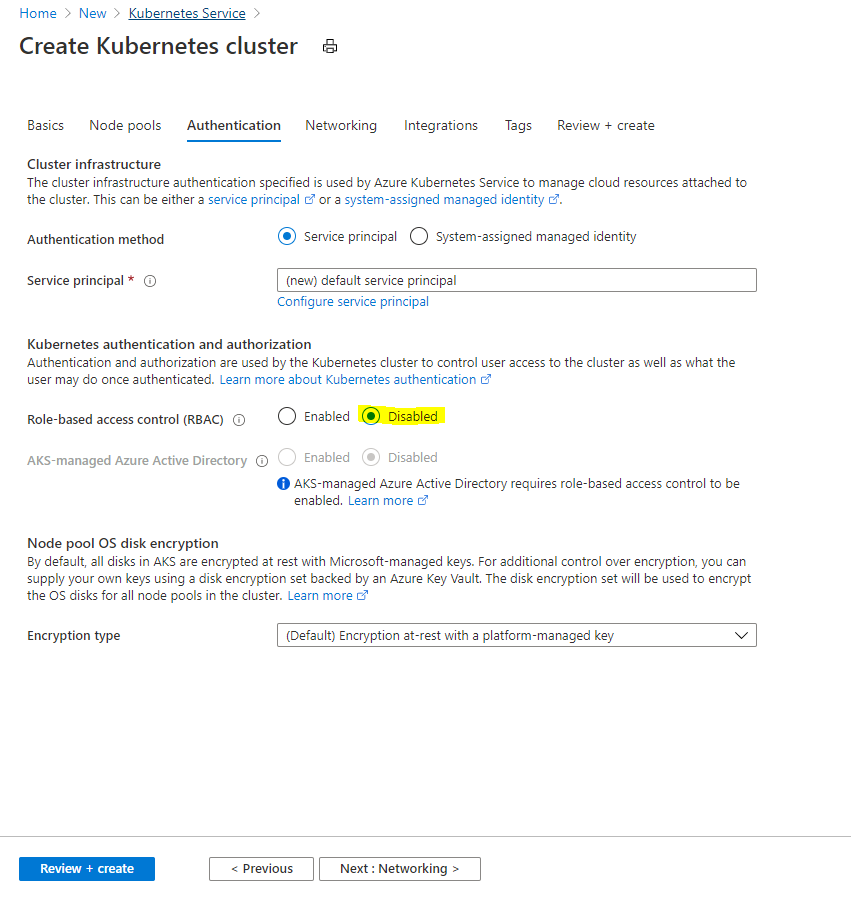
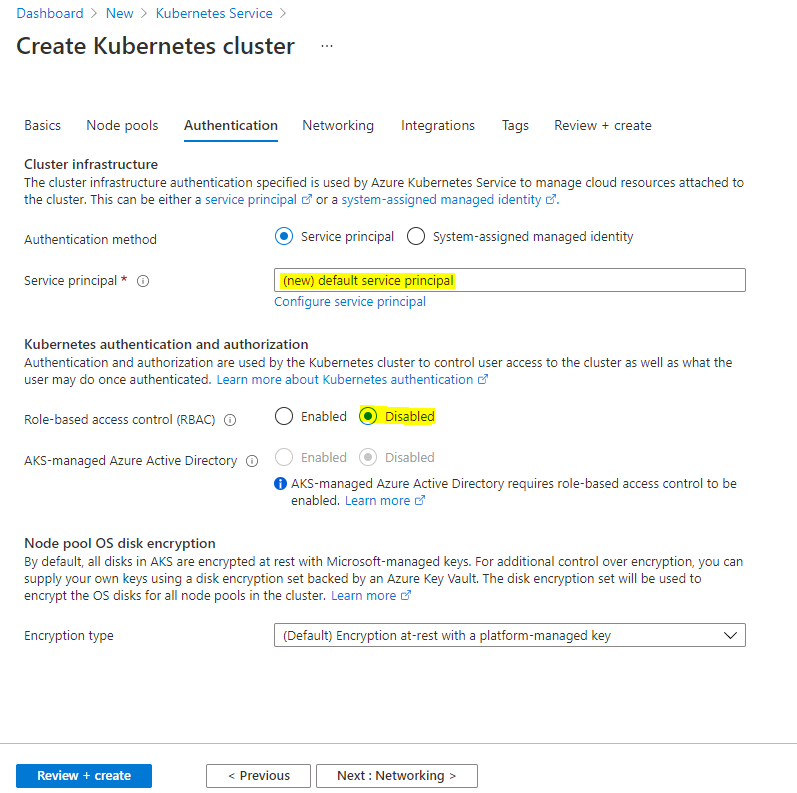
Update to support Helm 3.x + AKS 1.18

diff --git a/README.md b/README.md
@@ -217,11 +217,11 @@ The new release pipeline should begin running:
 
 Integration testing is important for IoT Edge solutions which rely on services to accomplish desired functionality.  We will setup a scalable deployment of QA Devices using an Azure Kubernetes cluster.  This allows for an ability to deploy a theoretically limitless number of devices into an isolated environment for testing.  In addition, we will be able to monitor these devices using the dockerappinsights module which is configured in [deployment.template.json](/EdgeSolution/deployment.template.json). Completion of this step will require configuration of an Azure Kubernetes Service (AKS).
 
-You can deploy an AKS instance into your Azure Subscription by [creating an Azure Kubernetes Service cluster in the Azure Portal](https://docs.microsoft.com/azure/aks/kubernetes-walkthrough-portal?WT.mc_id=iot-0000-pdecarlo#create-an-aks-cluster).  It is important that you pay attention to the following configuration options during creation.  By default, this lab supports Kubernetes 1.15.x, you must ensure that you specify this during the configuration of your AKS instance.  In addition, you can save costs by reducing the Node Count to "1", this will deploy a single VM into your cluster and can be updated later if more resources are needed. Both of these options are highlighted below:
+You can deploy an AKS instance into your Azure Subscription by [creating an Azure Kubernetes Service cluster in the Azure Portal](https://docs.microsoft.com/azure/aks/kubernetes-walkthrough-portal?WT.mc_id=iot-0000-pdecarlo#create-an-aks-cluster).  It is important that you pay attention to the following configuration options during creation.  By default, this lab supports Kubernetes 1.18.14, you must ensure that you specify this during the configuration of your AKS instance.  In addition, you can save costs by reducing the Node Count to "1", this will deploy a single VM into your cluster and can be updated later if more resources are needed. Both of these options are highlighted below:
 
-![Set K8s version to 1.15.x](/content/AKS1.PNG)
+![Set K8s version to 1.18.14](/content/AKS1.PNG)
 
-In addition, to make deployment and configuration a bit easier, we will disable Role Based Access Control (RBAC).  This is not advised in production, but for the purposes of this lab it will greatly reduce the surface area for error.  You must ensure that you specify this during the configuration of your AKS deployment as shown below:
+In addition, to make deployment and configuration a bit easier, we will disable Role Based Access Control (RBAC).  This is not advised in production, but for the purposes of this lab it will greatly reduce the surface area for error. We also advise that you select "Service Principal" as your authentication method. You must ensure that you specify this during the configuration of your AKS deployment as shown below:
 
 ![Disable RBAC](/content/AKS2.PNG)
 
@@ -239,27 +239,23 @@ Rename this stage to "Integration":
 
 ![Add Integration Step](/content/AddIntegrationStep.PNG)
 
-An "Install Helm 2.9.1" task will be created, to reduce surface area for error, this should not be modified.
+First, we will modify the top-level parameters for this stage by selecting "Integration" at the top and supplying the appropriate values for the "Azure Subscription", "Resource group", and "Kubernetes cluster". These should be the values that were used when deploying your Kubernetes cluster:
 
-You will also notice that the "Helm init" and "Helm upgrade" tasks require some additional configuration:
-
-![Helm Fix 1](/content/HelmFix1.PNG)
-
-![Helm Fix 2](/content/HelmFix2.PNG)
-
-To fix this, select the stage name and configure the required settings:
-
-![Helm Fix 3](/content/HelmFix3.PNG)
+![Integration Parameters](/content/IntegrationParameters.PNG)
 
 Next, we will configure the Agent job to run on the "Hosted Ubuntu 1604" agent pool:
 
-![Helm Fix 4](/content/HelmFix4.PNG)
+![Configure Agent](/content/ConfigureAgent.PNG)
 
-Next, we will configure the "Helm init" task to upgrade / install tiller:
+You should notice an "Install Helm 2.9.1" task has been created, we will modify this to instead install Helm 3.5.2:
 
-![Helm Fix 5](/content/HelmFix5.PNG)
+![Helm Fix 1](/content/HelmFix1.PNG)
 
-Next, we will configure the "Helm upgrade" task to deploy the helm chart for the "azure-iot-edge-device-container".  Begin by adding a new "Bash" task right before the "Helm upgrade" task. Configure the type to "inline" and add the following:
+You will also notice that the "Helm init" and "Helm upgrade" tasks require some additional configuration.  [Helm version 3 and above no longer requires "Helm init"](https://helm.sh/blog/helm-v3-beta/) so we will remove this task.
+
+![Helm Fix 2](/content/HelmFix2.PNG)
+
+Next, we will create a new task to add the helm chart for the "azure-iot-edge-device-container".  Begin by adding a new "Bash" task right before the "Helm upgrade" task. Configure the type to "inline" and add the following:
 
     helm repo add azure-iot-edge-device-container https://toolboc.github.io/azure-iot-edge-device-container
     helm repo list
@@ -267,21 +263,29 @@ Next, we will configure the "Helm upgrade" task to deploy the helm chart for the
 
 ![Add Helm Chart](/content/AddHelmChart.PNG)
 
+Next, we want to ensure that our helm deployment does not recycle existing pods on consecutive runs, and instead deploys brand new instances of the "azure-iot-edge-device-container" for testing.  Add a new "kubectl" task, then modify the "Service Connection Type" to "Azure Resource Manager", select the Azure subscription that contains your Kubernetes Cluster, then choose the resource group and name of your cluster as shown:
+
+![Kubectl Config part 1](/content/Kubectl1.PNG)
+
+In this same section, scroll down and modify the namespace to "iot-edge-qa", set the command to "delete , and set arguments field to "pods --all" as shown:
+
+![Kubectl Config part 1](/content/Kubectl2.PNG)
+
 Next, we will configure the Helm Upgrade task.  Set the Namespace value to "iot-edge-qa", set the Command to "upgrade", set Chart Type to "Name", set the Chart Name to "azure-iot-edge-device-container/azure-iot-edge-device-container", set the Release Name to "iot-edge-qa", set Set Values to:
 
     spAppUrl=$(spAppUrl),spPassword=$(spPassword),tenantId=$(tenantId),subscriptionId=$(subscriptionId),iothub_name=$(iothub_name),environment=$(environment),replicaCount=2 
 
-and ensure that "Install if release not present", "Recreate Pods", "Force", and "Wait" checkboxes are checked as shown below:
+and ensure that "Install if release not present", and "Wait" checkboxes are checked as shown below:
 
 ![Configure Helm Upgrade](/content/HelmUpgrade.PNG)
 
-Start a new release and when complete, view  your AKS cluster Dashboard with:
+Start a new release and when complete, navigate  your AKS service within the Azure Portal, then select Namespaces:
 
-    az aks browse --resource-group <kube-cluster-resource-group> --name <kube-cluster-name>
+![Azure K8s Namespaces](/content/azureK8sNamespaces.PNG)
 
-![k8s Dashboard](/content/k8sDash.PNG)
+You will notice that the iot-edge-qa deployment has been deployed to the cluster.  To view the individual pods, you can select "Workloads" where you should see that two instances have been deployed:
 
-You will notice that QA devices have been deployed to the cluster.
+![Azure K8s Workloads](/content/azureK8sWorkloads.PNG)
 
 ### Step 6: Monitoring devices with App Insights
 
